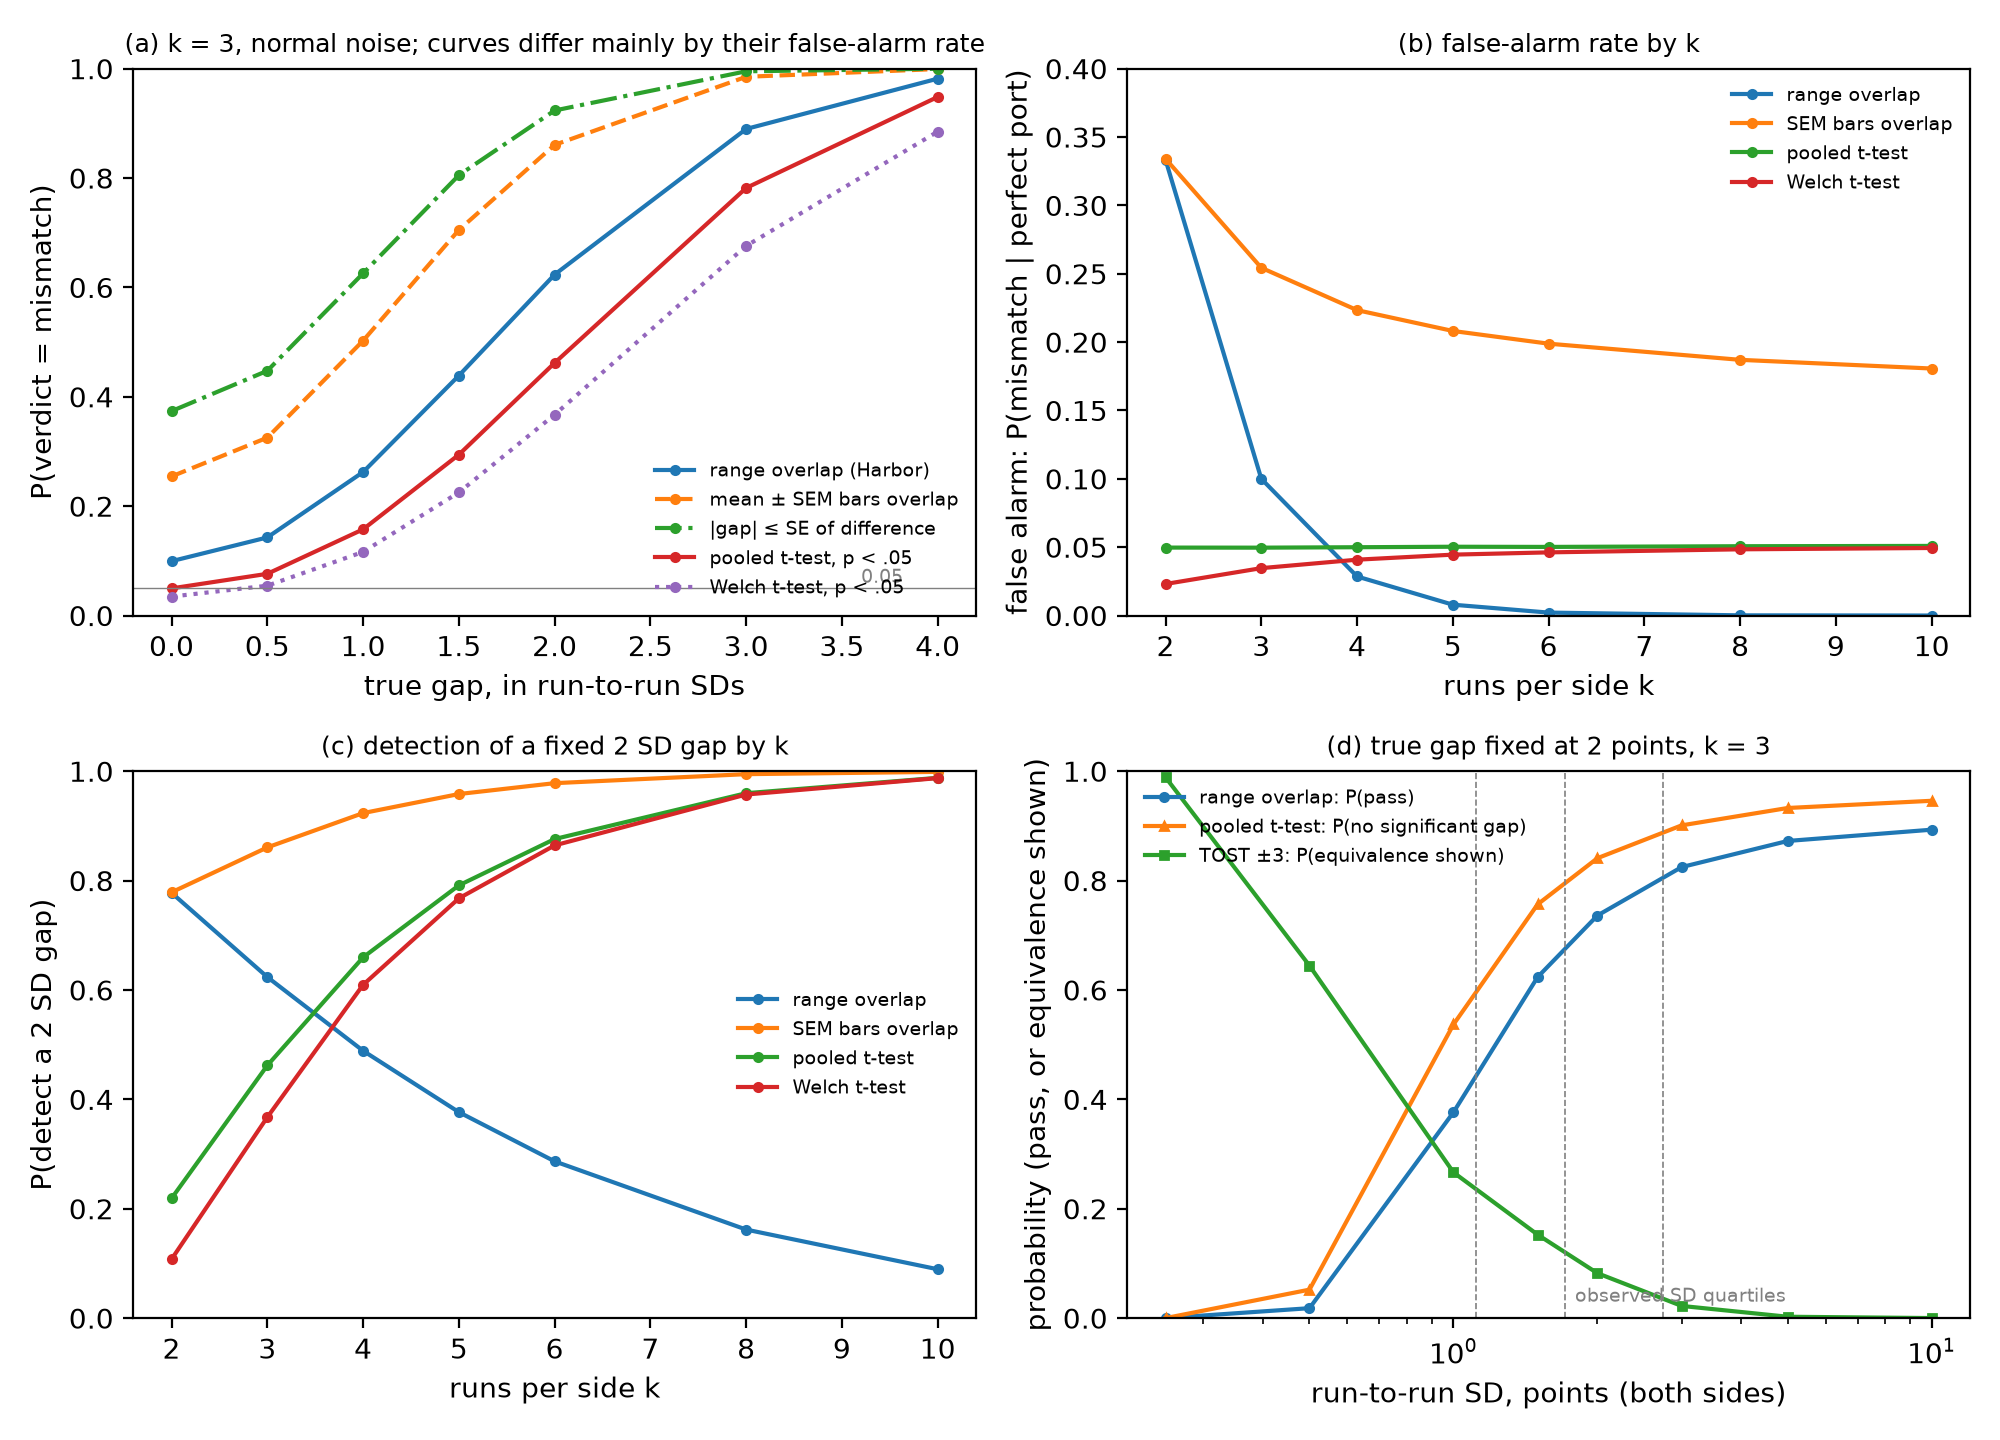
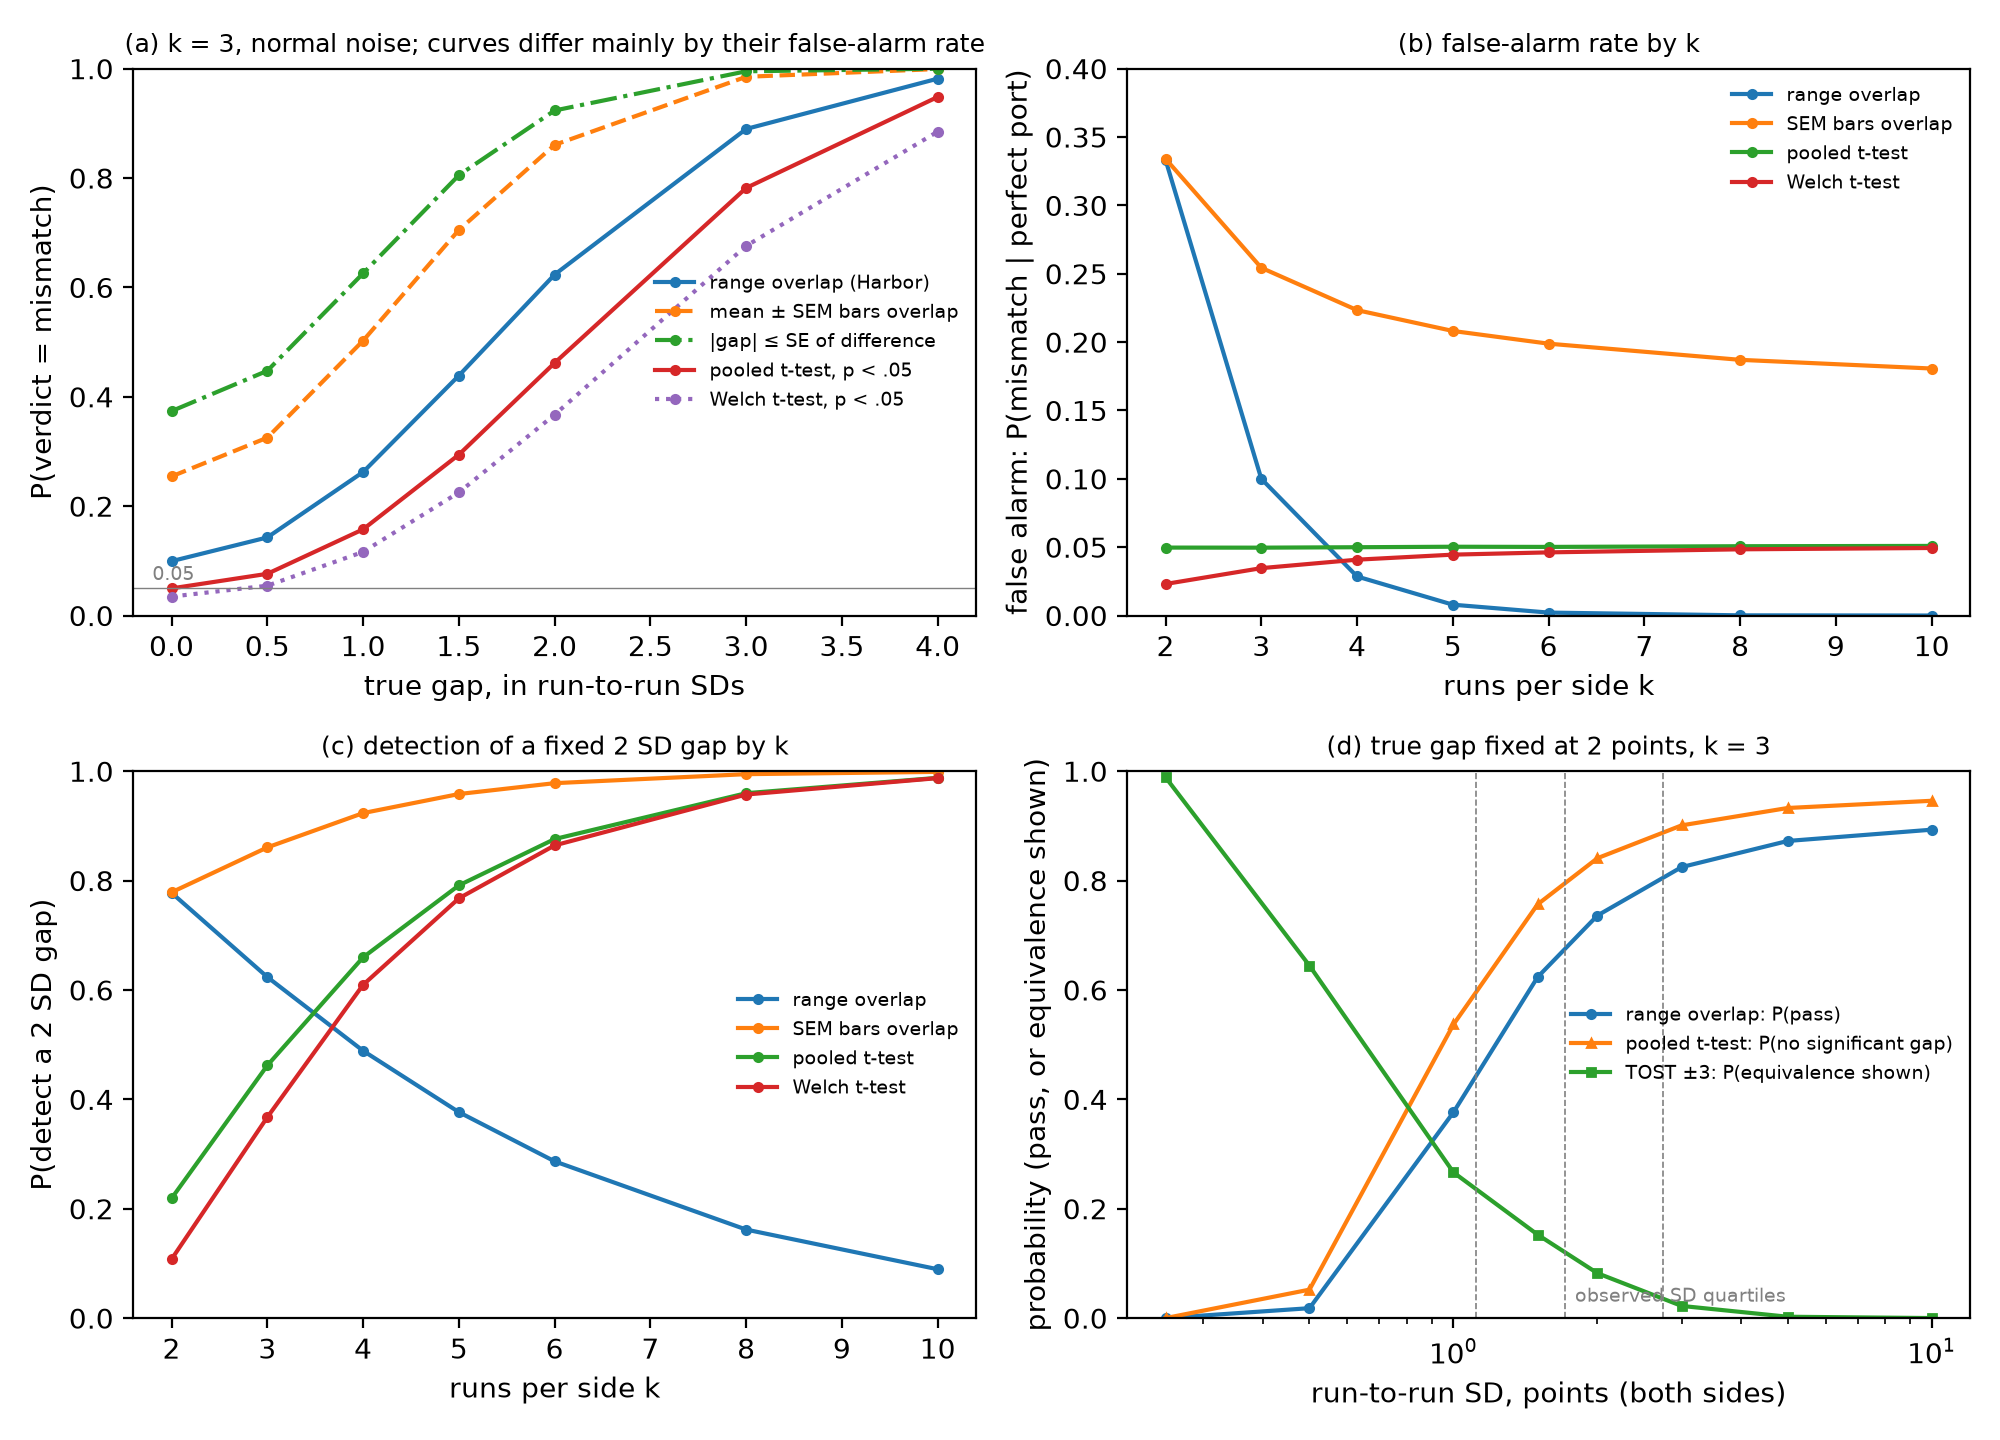
RQ1 figure: move labels off the curves

diff --git a/scripts/p2_rq1_rules.py b/scripts/p2_rq1_rules.py
@@ -182,7 +182,7 @@ ax = axes[0, 0]
 for rule, lab, ls in (("R", "range overlap (Harbor)", "-"), ("S1", "mean ± SEM bars overlap", "--"), ("S2", "|gap| ≤ SE of difference", "-."), ("T", "pooled t-test, p < .05", "-"), ("W", "Welch t-test, p < .05", ":")):
     ax.plot(DELTAS, [normal[f"k=3,gap={d}"][rule] for d in DELTAS], ls, marker="o", ms=3, label=lab)
 ax.set_xlabel("true gap, in run-to-run SDs"); ax.set_ylabel("P(verdict = mismatch)"); ax.set_title("(a) k = 3, normal noise; curves differ mainly by their false-alarm rate", fontsize=9)
-ax.axhline(0.05, color="grey", lw=0.5); ax.text(3.6, 0.06, "0.05", fontsize=7, color="grey"); ax.legend(fontsize=7, frameon=False); ax.set_ylim(0, 1)
+ax.axhline(0.05, color="grey", lw=0.5); ax.text(-0.1, 0.065, "0.05", fontsize=7, color="grey"); ax.legend(fontsize=7, frameon=False, loc="center right"); ax.set_ylim(0, 1)
 ax = axes[0, 1]
 for rule, lab in (("R", "range overlap"), ("S1", "SEM bars overlap"), ("T", "pooled t-test"), ("W", "Welch t-test")):
     ax.plot(KS, [summ["false_alarm_by_k"][rule][str(k)] for k in KS], marker="o", ms=3, label=lab)
@@ -200,7 +200,7 @@ if sd_ticks:
     for q in sd_ticks:
         ax.axvline(q, color="grey", lw=0.6, ls="--")
     ax.text(sd_ticks[1] * 1.05, 0.03, "observed SD quartiles", fontsize=7, color="grey")
-ax.set_xscale("log"); ax.set_xlabel("run-to-run SD, points (both sides)"); ax.set_ylabel("probability (pass, or equivalence shown)"); ax.set_title("(d) true gap fixed at 2 points, k = 3", fontsize=9); ax.set_ylim(0, 1); ax.legend(fontsize=7, frameon=False)
+ax.set_xscale("log"); ax.set_xlabel("run-to-run SD, points (both sides)"); ax.set_ylabel("probability (pass, or equivalence shown)"); ax.set_title("(d) true gap fixed at 2 points, k = 3", fontsize=9); ax.set_ylim(0, 1); ax.legend(fontsize=7, frameon=False, loc="center right")
 fig.tight_layout()
 fig.savefig(os.path.join(out, "figures", "fig_rq1_rules.png"), dpi=200)
 fig.savefig(os.path.join(out, "figures", "fig_rq1_rules.pdf"))
